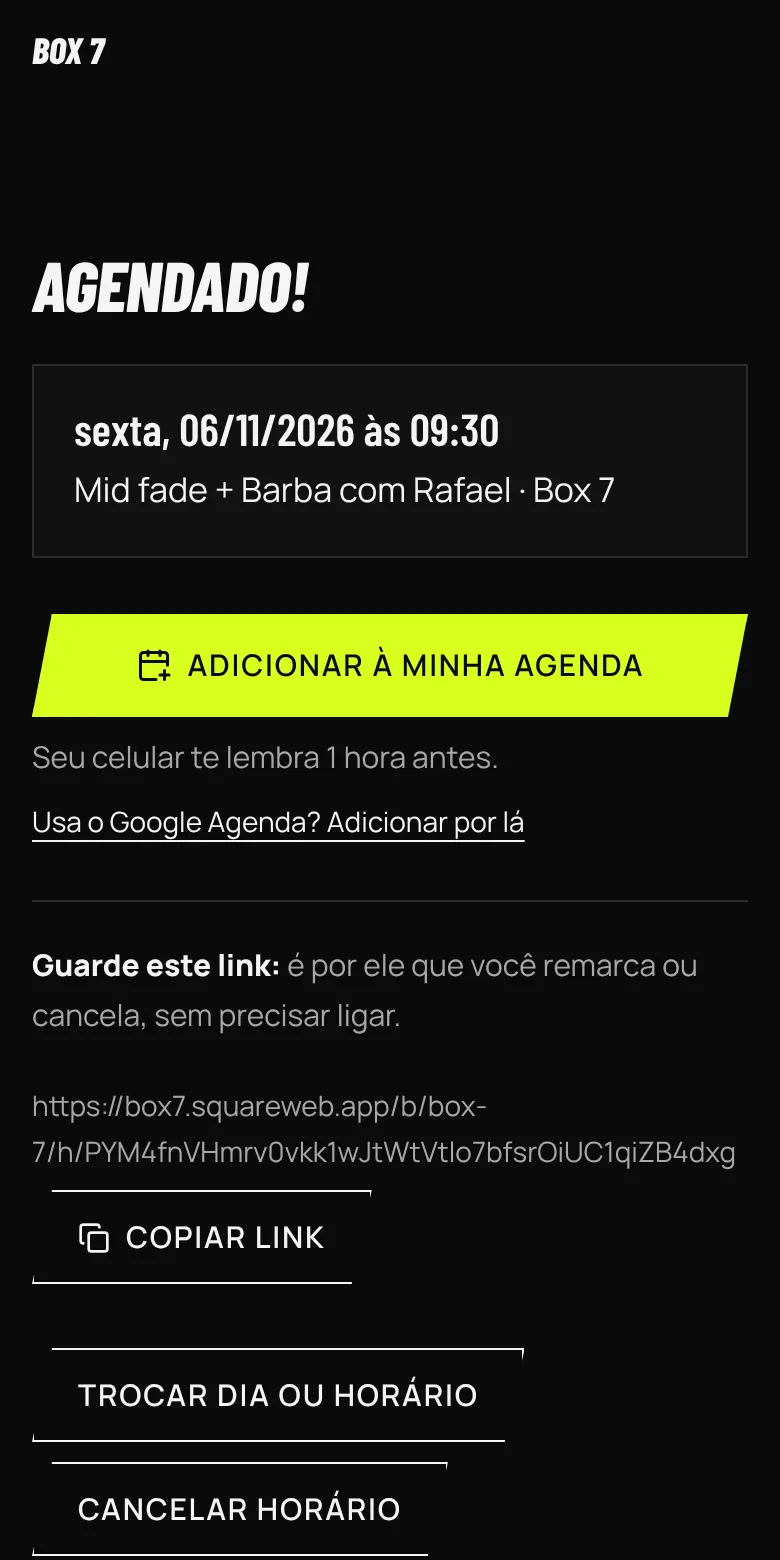
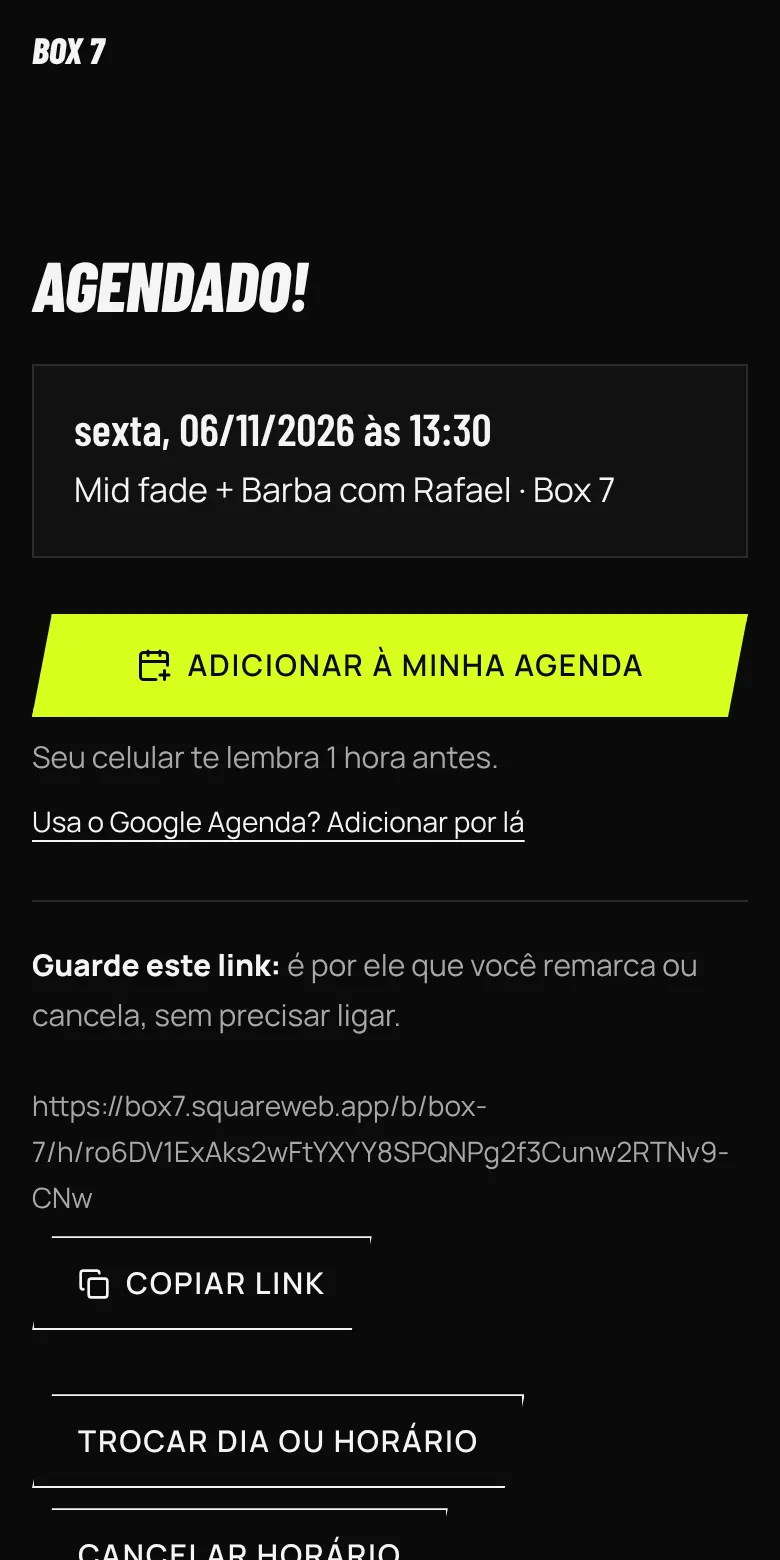
SaaS: privacidade e termos no estilo do site da barbearia; leads: todos os prints refeitos com o SaaS atual (agendar por grupos, agenda da semana, painel)
Claude-Session: https://claude.ai/code/session_01MN9zoEGv1FFz94Fua4B64o

diff --git a/apps/site/app/(cursos)/layout.tsx b/apps/site/app/(cursos)/layout.tsx
@@ -7,6 +7,10 @@ import { MarcaTopo } from "@/componentes/MarcaTopo";
 import { soEntrega } from "@/lib/modo";
 import "../globals.css";
 import "./imperial.css";
+import "../(barbearias)/temas.css";
+import "../(barbearias)/app/painel.css";
+import "../(barbearias)/app/painel-temas.css";
+import { barbeariaDoApp } from "@/lib/barbearia-do-app";
 
 export function generateMetadata(): Metadata {
   // No SaaS (só entrega) estas páginas são as do admin, privacidade e termos: sem a marca da venda.
@@ -26,23 +30,27 @@ export const viewport: Viewport = {
 };
 
 export default function Layout({ children }: { children: React.ReactNode }) {
-  // O SaaS usa este layout só no admin, na privacidade e nos termos: nada de link pra venda.
+  // O SaaS usa este layout só na privacidade e nos termos: no estilo do site da barbearia (as mesmas
+  // cores e letras do painel), sem nada da venda.
   if (soEntrega()) {
+    const b = barbeariaDoApp();
     return (
       <html lang="pt-BR">
-        <body className="site-cursos">
-          <div className="barra-topo">
-            <header className="topo">
-              <Link href="/app/entrar" className="marca">
-                <span className="marca-icone"><CalendarDays size={18} aria-hidden /></span>
-                Site da Barbearia
-              </Link>
-            </header>
+        <body className="corpo-barbearias">
+          <div className="painel-simples" data-tema-painel={b?.tema}>
+            <div className="barra-topo">
+              <header className="topo">
+                <Link href="/" className="marca">
+                  <span className="marca-icone"><CalendarDays size={18} aria-hidden /></span>
+                  {b?.nome ?? "Site da Barbearia"}
+                </Link>
+              </header>
+            </div>
+            <main>{children}</main>
+            <footer className="rodape">
+              <Link href="/privacidade">Privacidade</Link> · <Link href="/termos">Termos de uso</Link>
+            </footer>
           </div>
-          <main>{children}</main>
-          <footer className="rodape">
-            <Link href="/privacidade">Privacidade</Link> · <Link href="/termos">Termos de uso</Link>
-          </footer>
         </body>
       </html>
     );

diff --git a/apps/site/app/(cursos)/page.tsx b/apps/site/app/(cursos)/page.tsx
@@ -35,8 +35,9 @@ const NO_SITE = [
 
 /** Telas reais do sistema (tiradas de um site de teste em public/funcionalidades/), na ordem do uso. */
 const TELAS = [
-  { arquivo: "agendar-corte", titulo: "O cliente escolhe o corte", texto: "Cada corte com foto e preço. Quem só quer a barba começa em \"Não vou cortar\".", alt: "Tela de escolher o corte no celular" },
-  { arquivo: "agendar-adicionais", titulo: "Soma barba e sobrancelha", texto: "Os adicionais entram com um toque, com o tempo e o preço certos.", alt: "Tela de adicionais com barba, cavanhaque, risco e pezinho" },
+  { arquivo: "agendar-grupos", titulo: "O cliente escolhe por grupo", texto: "Barba, cabelo, sobrancelha, pigmentação, platinado: cada grupo com foto e preço a partir de.", alt: "Tela com os grupos de serviço da barbearia" },
+  { arquivo: "agendar-cabelo", titulo: "Cada corte com foto e preço", texto: "Ele abre o grupo, vê os cortes da sua barbearia e toca no que quer.", alt: "Tela com os cortes do grupo Cabelo" },
+  { arquivo: "agendar-pedido", titulo: "Soma tudo e mostra o total", texto: "Corte, barba e sobrancelha juntos, com o tempo e o valor certos antes de marcar.", alt: "Tela com o resumo do que vai ser feito e o total" },
   { arquivo: "agendar-horario", titulo: "Só horário livre de verdade", texto: "Ele vê os dias e os horários que sobram e marca na hora, sem te chamar.", alt: "Tela de escolher o dia e o horário" },
   { arquivo: "agendado", titulo: "Lembrete no celular dele", texto: "Põe na agenda do celular e, se precisar, troca ou cancela pelo link.", alt: "Tela de horário marcado com o botão de adicionar à agenda" },
   { arquivo: "painel-semana", titulo: "A semana inteira numa tabela", texto: "Horários de um lado, dias do outro. Cada cliente no lugar e no tamanho certos, e o que já passou fica apagado.", alt: "Agenda da semana em tabela, com os horários marcados de cada dia" },

diff --git a/apps/site/app/(cursos)/privacidade/page.tsx b/apps/site/app/(cursos)/privacidade/page.tsx
@@ -21,11 +21,20 @@ export default function Privacidade() {
       <h1>Privacidade</h1>
       <p className="suave">Atualizado em 29 de outubro de 2026.</p>
 
-      <p>
-        Esta página explica, em português simples, quais dados o Aprenda Livre guarda, pra quê, e o que você pode
-        pedir. Vale pro site de cursos e Revista, e pro sistema de site e agenda das barbearias.
-      </p>
+      {soEntrega() ? (
+        <p>
+          Esta página explica, em português simples, quais dados este site e a agenda da barbearia guardam, pra quê, e o
+          que você pode pedir.
+        </p>
+      ) : (
+        <p>
+          Esta página explica, em português simples, quais dados o Aprenda Livre guarda, pra quê, e o que você pode
+          pedir. Vale pro site de cursos e Revista, e pro sistema de site e agenda das barbearias.
+        </p>
+      )}
 
+      {/* No app de cada barbeiro (SaaS) não tem cursos, comunidade nem prospecção: só o site e a agenda. */}
+      {!soEntrega() && <>
       <h2>Cursos e Revista</h2>
       <p>
         Você lê tudo sem cadastro. Não usamos ferramenta de anúncio nem de rastreamento de terceiros. Contamos, de forma
@@ -49,6 +58,8 @@ export default function Privacidade() {
         achado em dados públicos (cadastro de CNPJ da Receita Federal, perfil público ou indicação). Toda mensagem diz
         quem está falando e como sair. Quem responde SAIR nunca mais é procurado.
       </p>
+
+      </>}
 
       <h2>Sistema de site e agenda (barbearias)</h2>
       <ul>

diff --git a/CLAUDE.md b/CLAUDE.md
@@ -32,6 +32,7 @@ login de aluno. Tudo em TypeScript, monorepo com npm workspaces.
 - Texto fora da foto (30/10/2026, como os sites de barbearia de referência): frases em faixa limpa sem foto atrás; trabalhos com título e botão em cima e fotos embaixo (`.b-trabalhos-secao`); chamada final com foto de um lado e texto do outro (`.b-chamada-com-foto`); cartões do agendar com nome, tempo e preço embaixo da foto. Só a abertura segue com texto sobre a capa.
 - Painel do barbeiro (`/app`, `app/layout.tsx` + `app/painel.css`; veste as cores, a letra dos títulos e o claro/escuro do estilo do site via `data-tema-painel` em `app/painel-temas.css`, também na tela de entrar do SaaS): casca de aplicativo só pra conta liberada (em montagem ou fora da conta fica o topo simples) — menu lateral na cor do estilo no computador e abas embaixo no celular (`componentes/barbearia/NavPainel.tsx`), botão "Ver meu site". `/app` abre com o resumo de hoje (próximo cliente, marcados, previsto, mês), cartão do site (copiar link, mandar no WhatsApp) e atalhos; `/app/conta` (Minha conta: plano e vencimento, dados, site, atalhos pro resto e Sair). Prints dos estilos em `public/barbeiros/` são tirados dos sites de exemplo (390×780, sem o aviso de exemplo).
 - Página inicial do site da barbearia (`/b/<slug>`, igual nos 6 temas, cada tema ajusta em `temas.css`) é um funil: só vende a ideia e leva pro "Agendar" (a escolha do serviço fica toda no agendar; nada de carrossel nem de horários na página inicial). Abertura em tela cheia com UMA foto, a capa (`CapaSlides` com um slide só: zoom lento Ken Burns) "Cortes a partir de R$ X" (menor preço de corte, se mostra preços) e "Agendar horário" → frase → galeria: "Antes e depois" (comparador de arrastar `AntesDepois`, até 4 pares, + "Quero sair assim", em todos os temas) quando o barbeiro cadastrou pares; sem pares, o mosaico (3 fotos de corte, degradê primeiro, sem repetir a capa; "Você sai daqui outro." + Agendar) → frase → "Quem vai te atender" (equipe em grade) → frase → "Conheça a casa" (foto, apresentação, números) → "Serviços e preços" (`#precos`, uma linha por serviço com nome, tempo e preço se mostra preços; grupos Cortes e Barba e cuidados; botão Agendar) → chamada final com foto (a quarta frase é o título dela) → "Horários e onde estamos" com mapa do Google Maps em iframe (`mapaEmbutido` em `lib/barbearias.ts`: sem chave nem custo, pino no endereço (só a cidade, sem endereço, só em exemplo/demonstração; cliente sem endereço fica sem mapa); escuro nos temas escuros; `frame-src` liberado só pro Google no CSP do `next.config.ts`; citado na `/privacidade`). Menu do topo: Trabalhos, Preços, Equipe, Onde estamos e Agendar. "Ver todos os trabalhos" embaixo do antes e depois ou do mosaico leva à galeria `/b/<slug>/trabalhos` (filtros por tipo, antes e depois no topo, grade de fotos). No celular, a barra fixa "Agendar" só aparece quando o botão da abertura sai da tela (`barraDepoisDaAbertura` em `Efeitos.tsx`). O texto dos cartões com foto é sempre branco (`.site-b .b-vitrine-item`), também nos temas claros. Exemplos ganham endereço ilustrativo (`ENDERECOS` em `lib/exemplos.ts`, rua do centro de Campinas sem número). Frases grandes entre todas as partes (`lib/frases.ts`, quatro por tema, no tom de cada um: três em letreiro e a quarta como título da chamada final; `componentes/barbearia/Frase.tsx`: a frase corre de lado sem parar como letreiro (`.b-letreiro`, animação contínua, não depende de rolar; parada e inteira com "reduzir movimento"), sobre foto que lembra barbearia: ambiente, depois ferramentas, depois a capa, repetindo se faltar). Fotos e equipe com `data-revelar` aparecem ao rolar (`revelarAoRolar` em `Efeitos.tsx`, todos os temas; só esconde com `.b-anima`, ligado pelo JS). Tudo parado com "reduzir movimento". Luxo Técnico mantém a abertura dividida (foto ao lado; no celular, nome e Agendar vêm antes da foto).
+- No SaaS, toda página veste o estilo do site: além do painel e do site, a privacidade e os termos (`app/(cursos)/layout.tsx` no `soEntrega()` usa `painel-simples` + `data-tema-painel` com o nome da barbearia no topo; a privacidade do SaaS fala só do site e da agenda). Telas do leads (`public/funcionalidades/`): agendar-grupos, agendar-cabelo, agendar-pedido, agendar-horario, agendado e as do painel, todas do SaaS atual em 2x no Potência.
 - Agendar, passo 1 novo (30/10/2026): grupos (`GRUPOS_SERVICO`/`grupoDoServico` em `lib/barbearias.ts`: Barba, Cabelo, Sobrancelha, Pigmentação, Platinado e cor, Acabamento e cuidados, pelo nome do serviço) → tocar abre os serviços do grupo (`grupo=`) → escolher volta pros grupos com "Vamos fazer: …", a lista com tempo e preço, "tirar" e o total. Cabelo é um corte só (escolher outro troca); os outros grupos ligam e desligam. A escolha anda em `sel`; "Escolher o horário" vira `servico` (o corte, se tiver; senão o primeiro que não é adicional) + `extra` (os que valem como adicional dele, até 4; o resto avisa que fica pra outro horário). Agora são 3 passos (serviços → horário → dados); "Mudar serviços" no passo 2 volta pros grupos com tudo. Links velhos (`servico` sem `ad=1`, `servico=sem`) caem nos grupos. O texto abaixo descreve o passo 1 antigo (carrossel e "Não vou cortar"), que saiu.
 - Agendar (`/b/<slug>/agendar`): 4 passos numerados "de 4" (serviço → adicionais → dia e horário com "qualquer um" → nome e WhatsApp); "Continuar" e "Confirmar horário" presos embaixo da tela (`.b-extras-acoes`, `.b-confirmar-fixo`); "Não vou cortar" é o primeiro cartão, mais estreito, pros cortes aparecerem ao lado. Raciocínio linear: passo 1 é o único carrossel do site (`CarrosselB`, com setas no computador; `ehCorte` em `lib/barbearias.ts`): primeiro "Não vou cortar" (`servico=sem`: cartões de barba e cuidados que marcam com um toque; o primeiro marcado vira o serviço do horário e o resto, adicionais; dois serviços que não são adicional não vão juntos), depois os cortes com foto (`fotosDosServicos`). Corte escolhido → "Completa o visual?" (adicionais em cartões, `CartaoMarcar`) → horário → dados. A foto do corte tocado vai na URL (`foto`, só foto de trabalho da barbearia em `CATEGORIAS_REFERENCIA`) e vira a referência do horário sem perguntar de novo; a grade "Quer mostrar o corte?" só aparece em corte sem foto. Sites de exemplo, demonstrações e contas criadas pelo admin usam o cardápio de barbearia de verdade (`lib/cardapio.ts`, `porCardapio`: low, mid, high e taper fade, social, americano, tesoura, crop francês, buzz cut, moicano, mullet, infantil, corte + barba; adicionais barba, cavanhaque, risco na navalha, pezinho, sobrancelha, hidratação, pigmentação e platinado; o botão "Atualizar os sites de exemplo" aplica nos que já existem). Até `MAX_ADICIONAIS` (4) adicionais: a página corta o excesso e avisa, em vez de quebrar; a faixa de erro não mostra texto com link vindo da URL. Pelo site só celular (`55`+DDD+`9`+8 dígitos) e nome de até 60 letras; o barbeiro marcando pode usar fixo. Corte infantil só oferece acabamento (pezinho, sobrancelha, risco, hidratação) e só mostra fotos de referência da categoria `infantil`. Saudações usam `primeiroNome` (`lib/pos-atendimento.ts`, pula "Seu", "Dona", "Sr."). Dia sem vaga no passo 3: "encerrado"/"fechado" hoje, "sem vaga" nos outros. Serviços no `/app/config` em lista curta (uma linha por serviço, abre pra editar; desativados no fim; "<nome> salvo."). Adicionais: serviço com `adicional` (conta nova já vem com Barba e Sobrancelha; `migrarAdicionais` fez isso nas antigas), `adicionaisPara` não repete o que o nome do serviço já tem ("Corte + barba" não oferece barba), somam tempo e preço; o horário guarda o snapshot (`adicionais_ids/nomes/min/centavos`) e `servico` já vem como "Corte + Barba" nas consultas. URL: `extra` repetido + `ad=1`. Avisos no celular do barbeiro por Web Push (`lib/avisos.ts`, `public/painel-sw.js`, chaves VAPID no banco ou no `.env`); o aviso traz "Confirmar no WhatsApp", que abre o WhatsApp DO BARBEIRO com a mensagem pronta (quem envia é ele).
 - Site entregue ao cliente não leva nada da nossa venda: "Você é barbeiro? Tenha um site assim" e o aviso de exemplo só em demonstração/exemplo (`demoAte`); o rodapé do cliente leva "Privacidade" pra `/b/<slug>/privacidade` (no visual da barbearia, sem a nossa marca; o agendar aponta pra ela).
